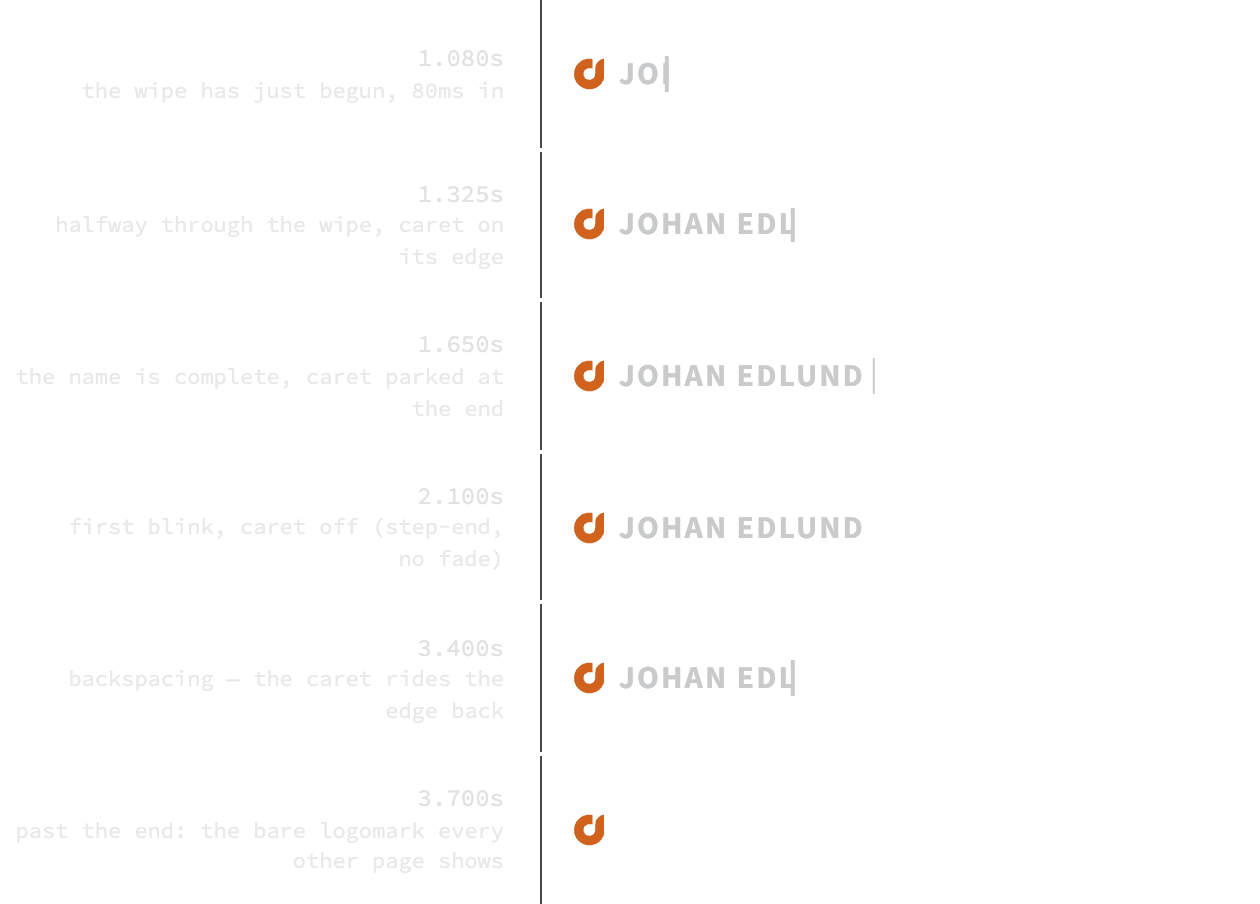
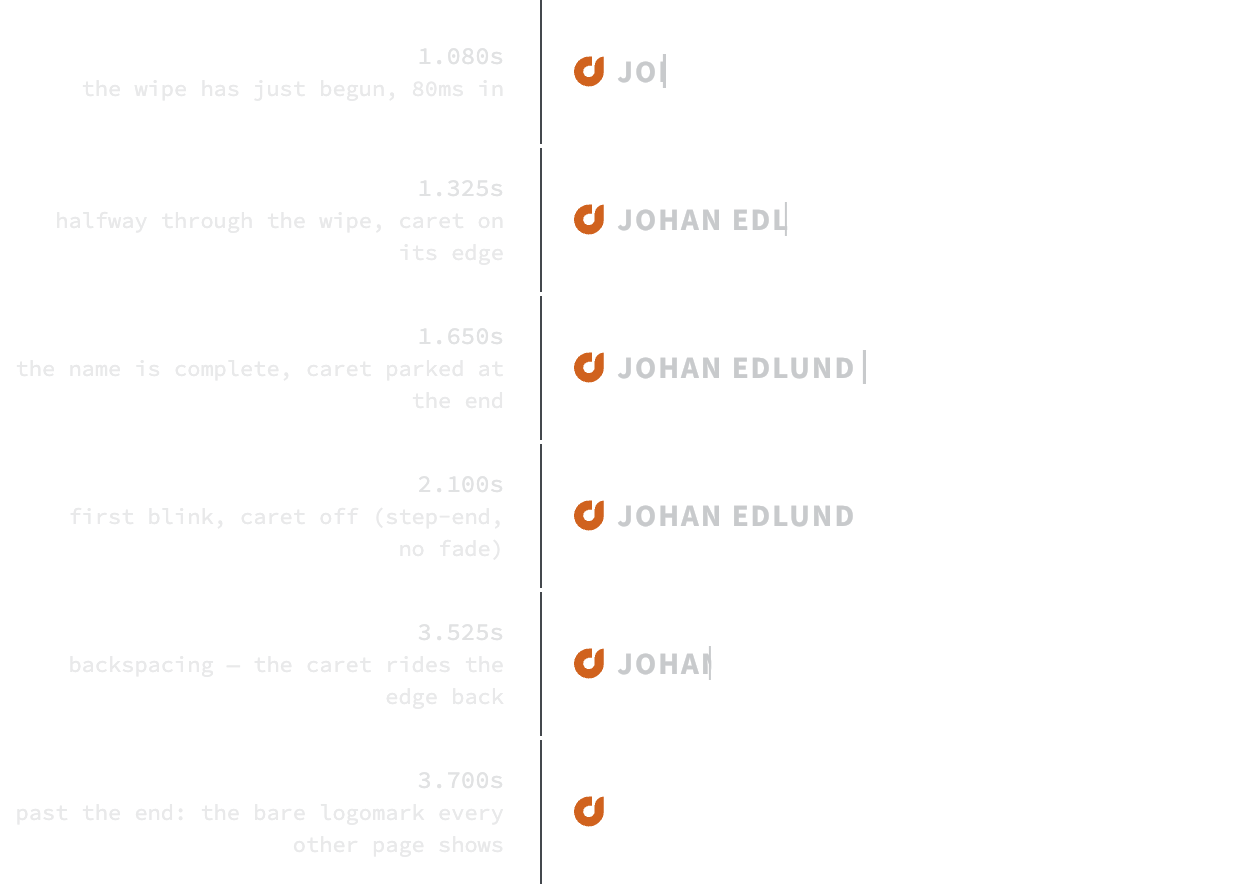
Wiki: the reveal filmstrip's backspace frame moves to 3.525s
At 3.400s it showed the same half-name as 1.325s, because ease-in mirrors ease-out, so mockups:check failed. Re-shot, alt text and height updated.

diff --git a/src/wiki/_sources/breadcrumb-reveal.html b/src/wiki/_sources/breadcrumb-reveal.html
@@ -61,7 +61,8 @@
     [1325, 'halfway through the wipe, caret on its edge'],
     [1650, 'the name is complete, caret parked at the end'],
     [2100, 'first blink, caret off (step-end, no fade)'],
-    [3400, 'backspacing — the caret rides the edge back'],
+    // ⚠ Not 3400, the backspace's midpoint: ease-in mirrors the typing's ease-out, so it shows the same half-name as 1325 — mockups:check rejected that pair too.
+    [3525, 'backspacing — the caret rides the edge back'],
     [3700, 'past the end: the bare logomark every other page shows'],
   ];
 

diff --git a/src/wiki/Choreographing CSS animations.md b/src/wiki/Choreographing CSS animations.md
@@ -100,7 +100,7 @@ document.getAnimations()
 The start page — and only the start page — types its own name. The header's logomark is followed by JOHAN EDLUND wiping in behind a caret, which blinks twice and then backspaces the name away, leaving the bare logomark that every other page shows. Everything above is from building it, 2026-08-28.
 
 <figure class="popout" data-wiki-mockup>
-  <img eleventy:formats="webp,png" src="/assets/images/wiki/reveal-filmstrip.png" alt="Six stacked frames of the site header, each labeled with a time. At 1.080s only the letters JO are visible with a caret bar beside them. At 1.325s the name has reached JOHAN EDL. At 1.650s the full name JOHAN EDLUND stands with the caret parked a small gap past the D. At 2.100s the name is complete and the caret has vanished. At 3.400s the name has shrunk back to JOHAN EDL with the caret on its edge. At 3.700s only the orange logomark is left." width="1260" height="904">
+  <img eleventy:formats="webp,png" src="/assets/images/wiki/reveal-filmstrip.png" alt="Six stacked frames of the site header, each labeled with a time. At 1.080s only the letters JO are visible with a caret bar beside them. At 1.325s the name has reached JOHAN EDL. At 1.650s the full name JOHAN EDLUND stands with the caret parked a small gap past the D. At 2.100s the name is complete and the caret has vanished. At 3.525s the name has shrunk back to JOHAN with the caret on its edge. At 3.700s only the orange logomark is left." width="1260" height="884">
   <figcaption>The chain at six instants on its own clock. The caret is one bar riding the wipe edge — the same duration and easing as the clip, and a percentage offset doing the tracking.</figcaption>
 </figure>
 
